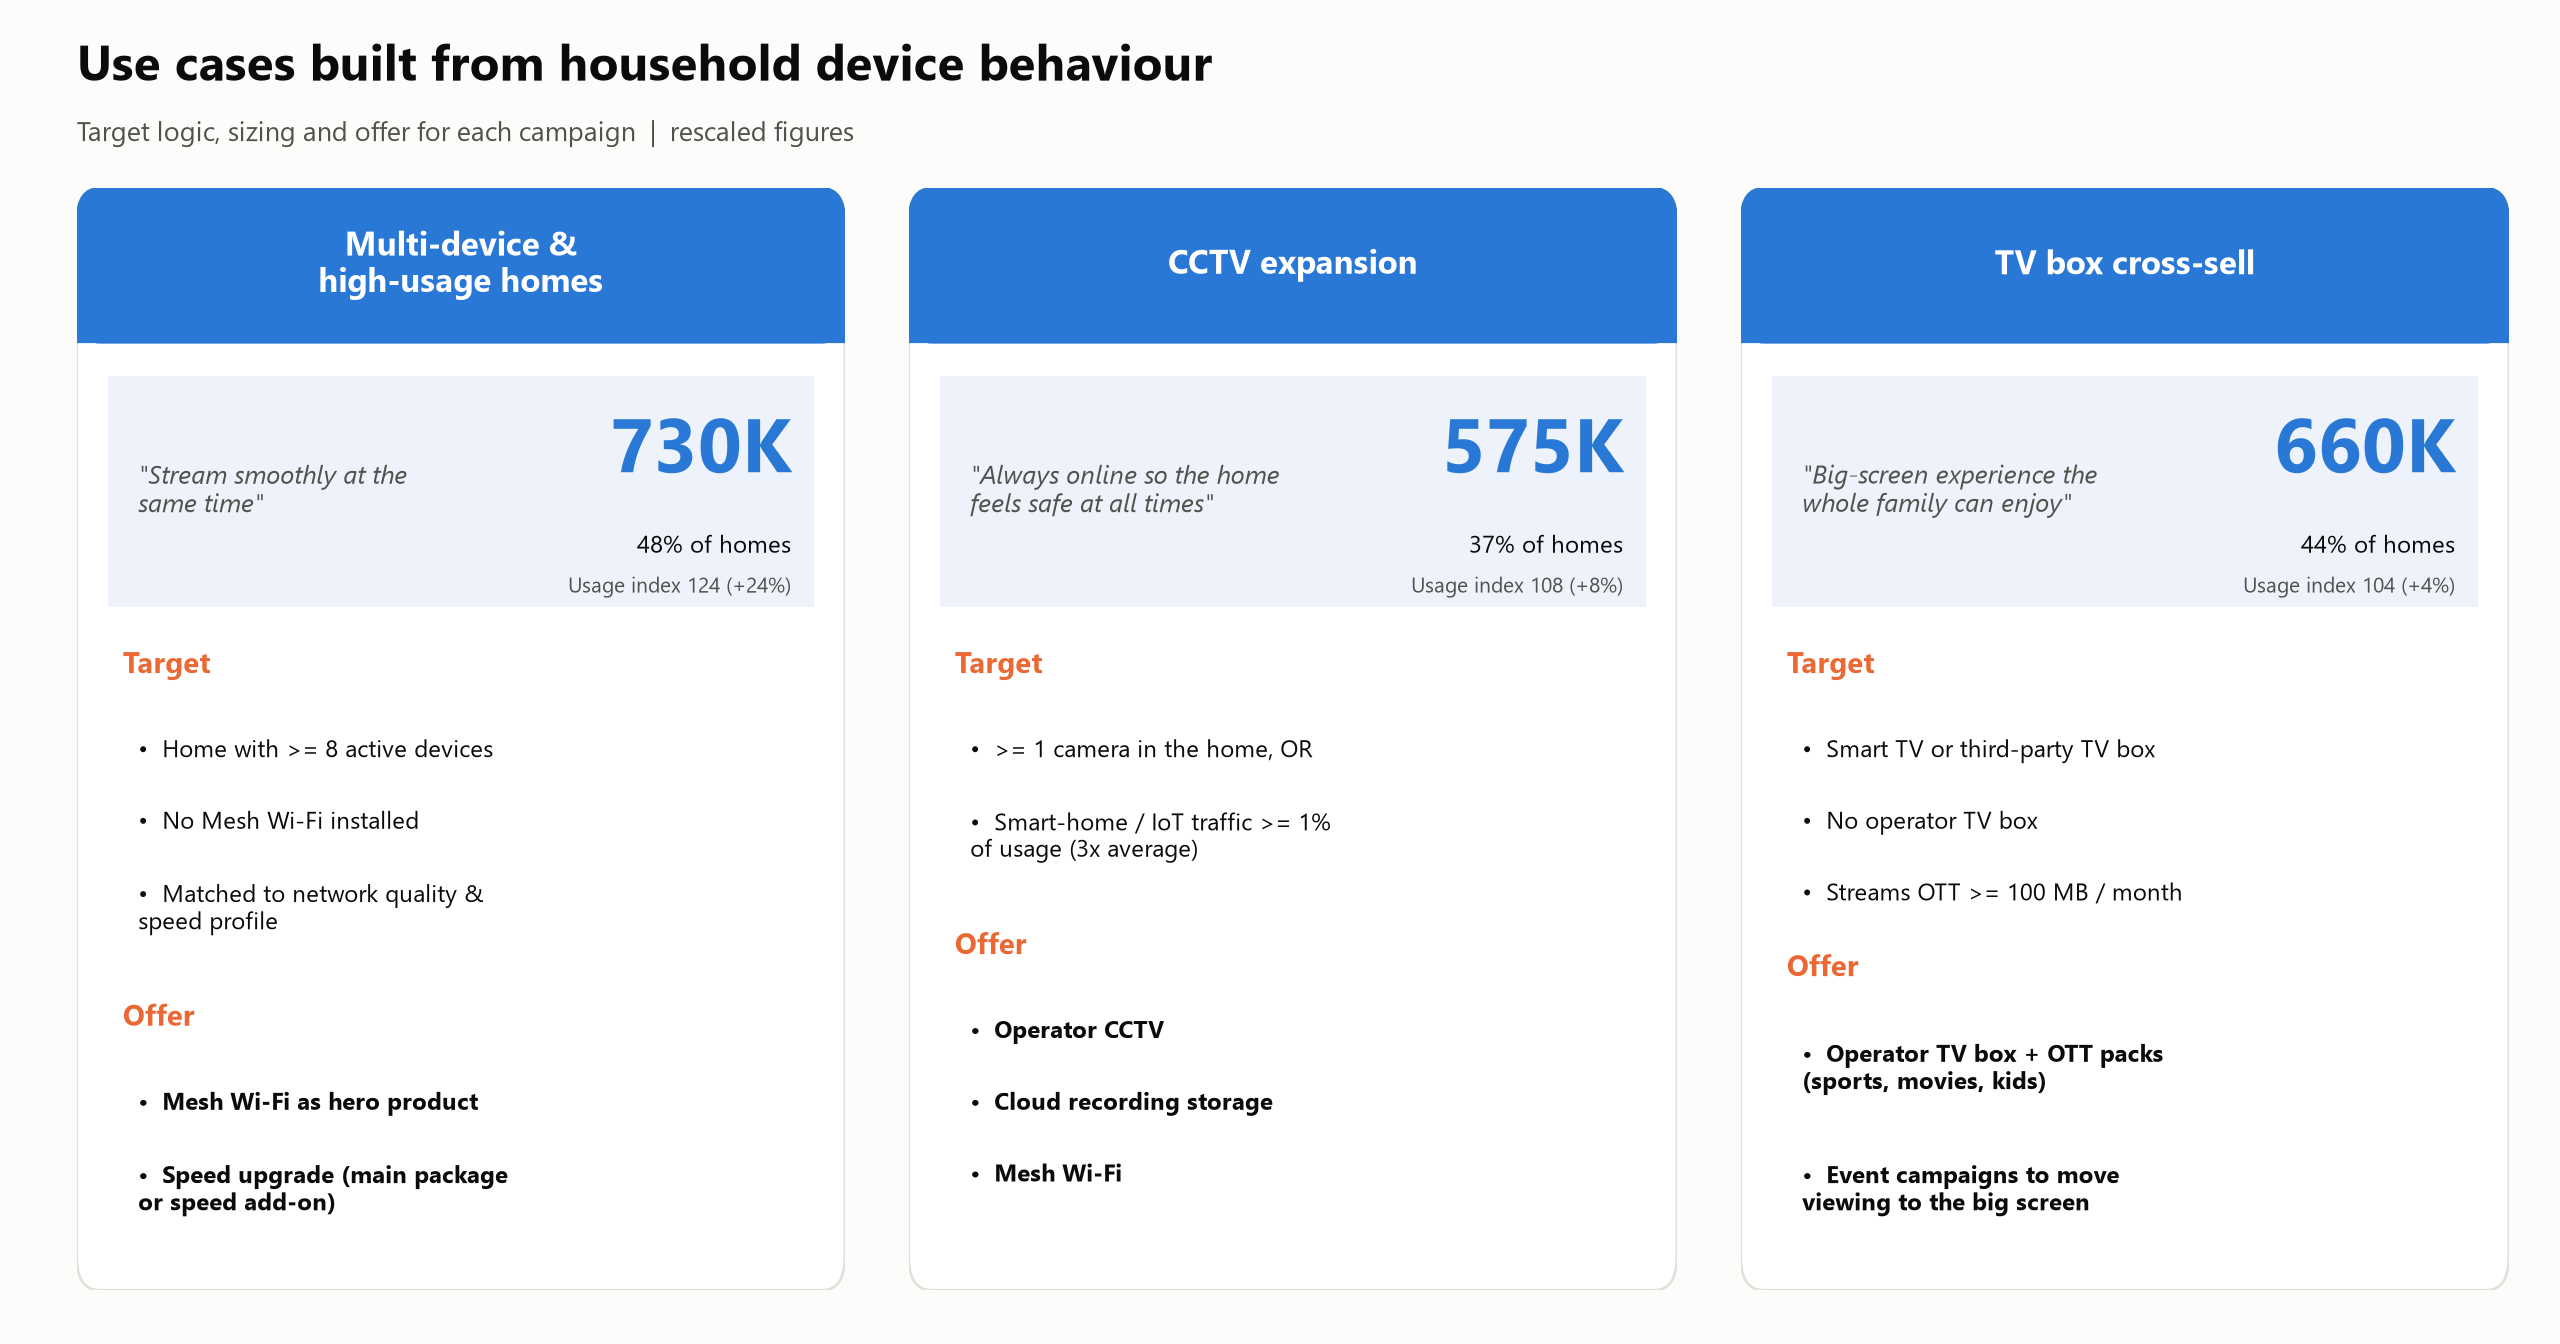
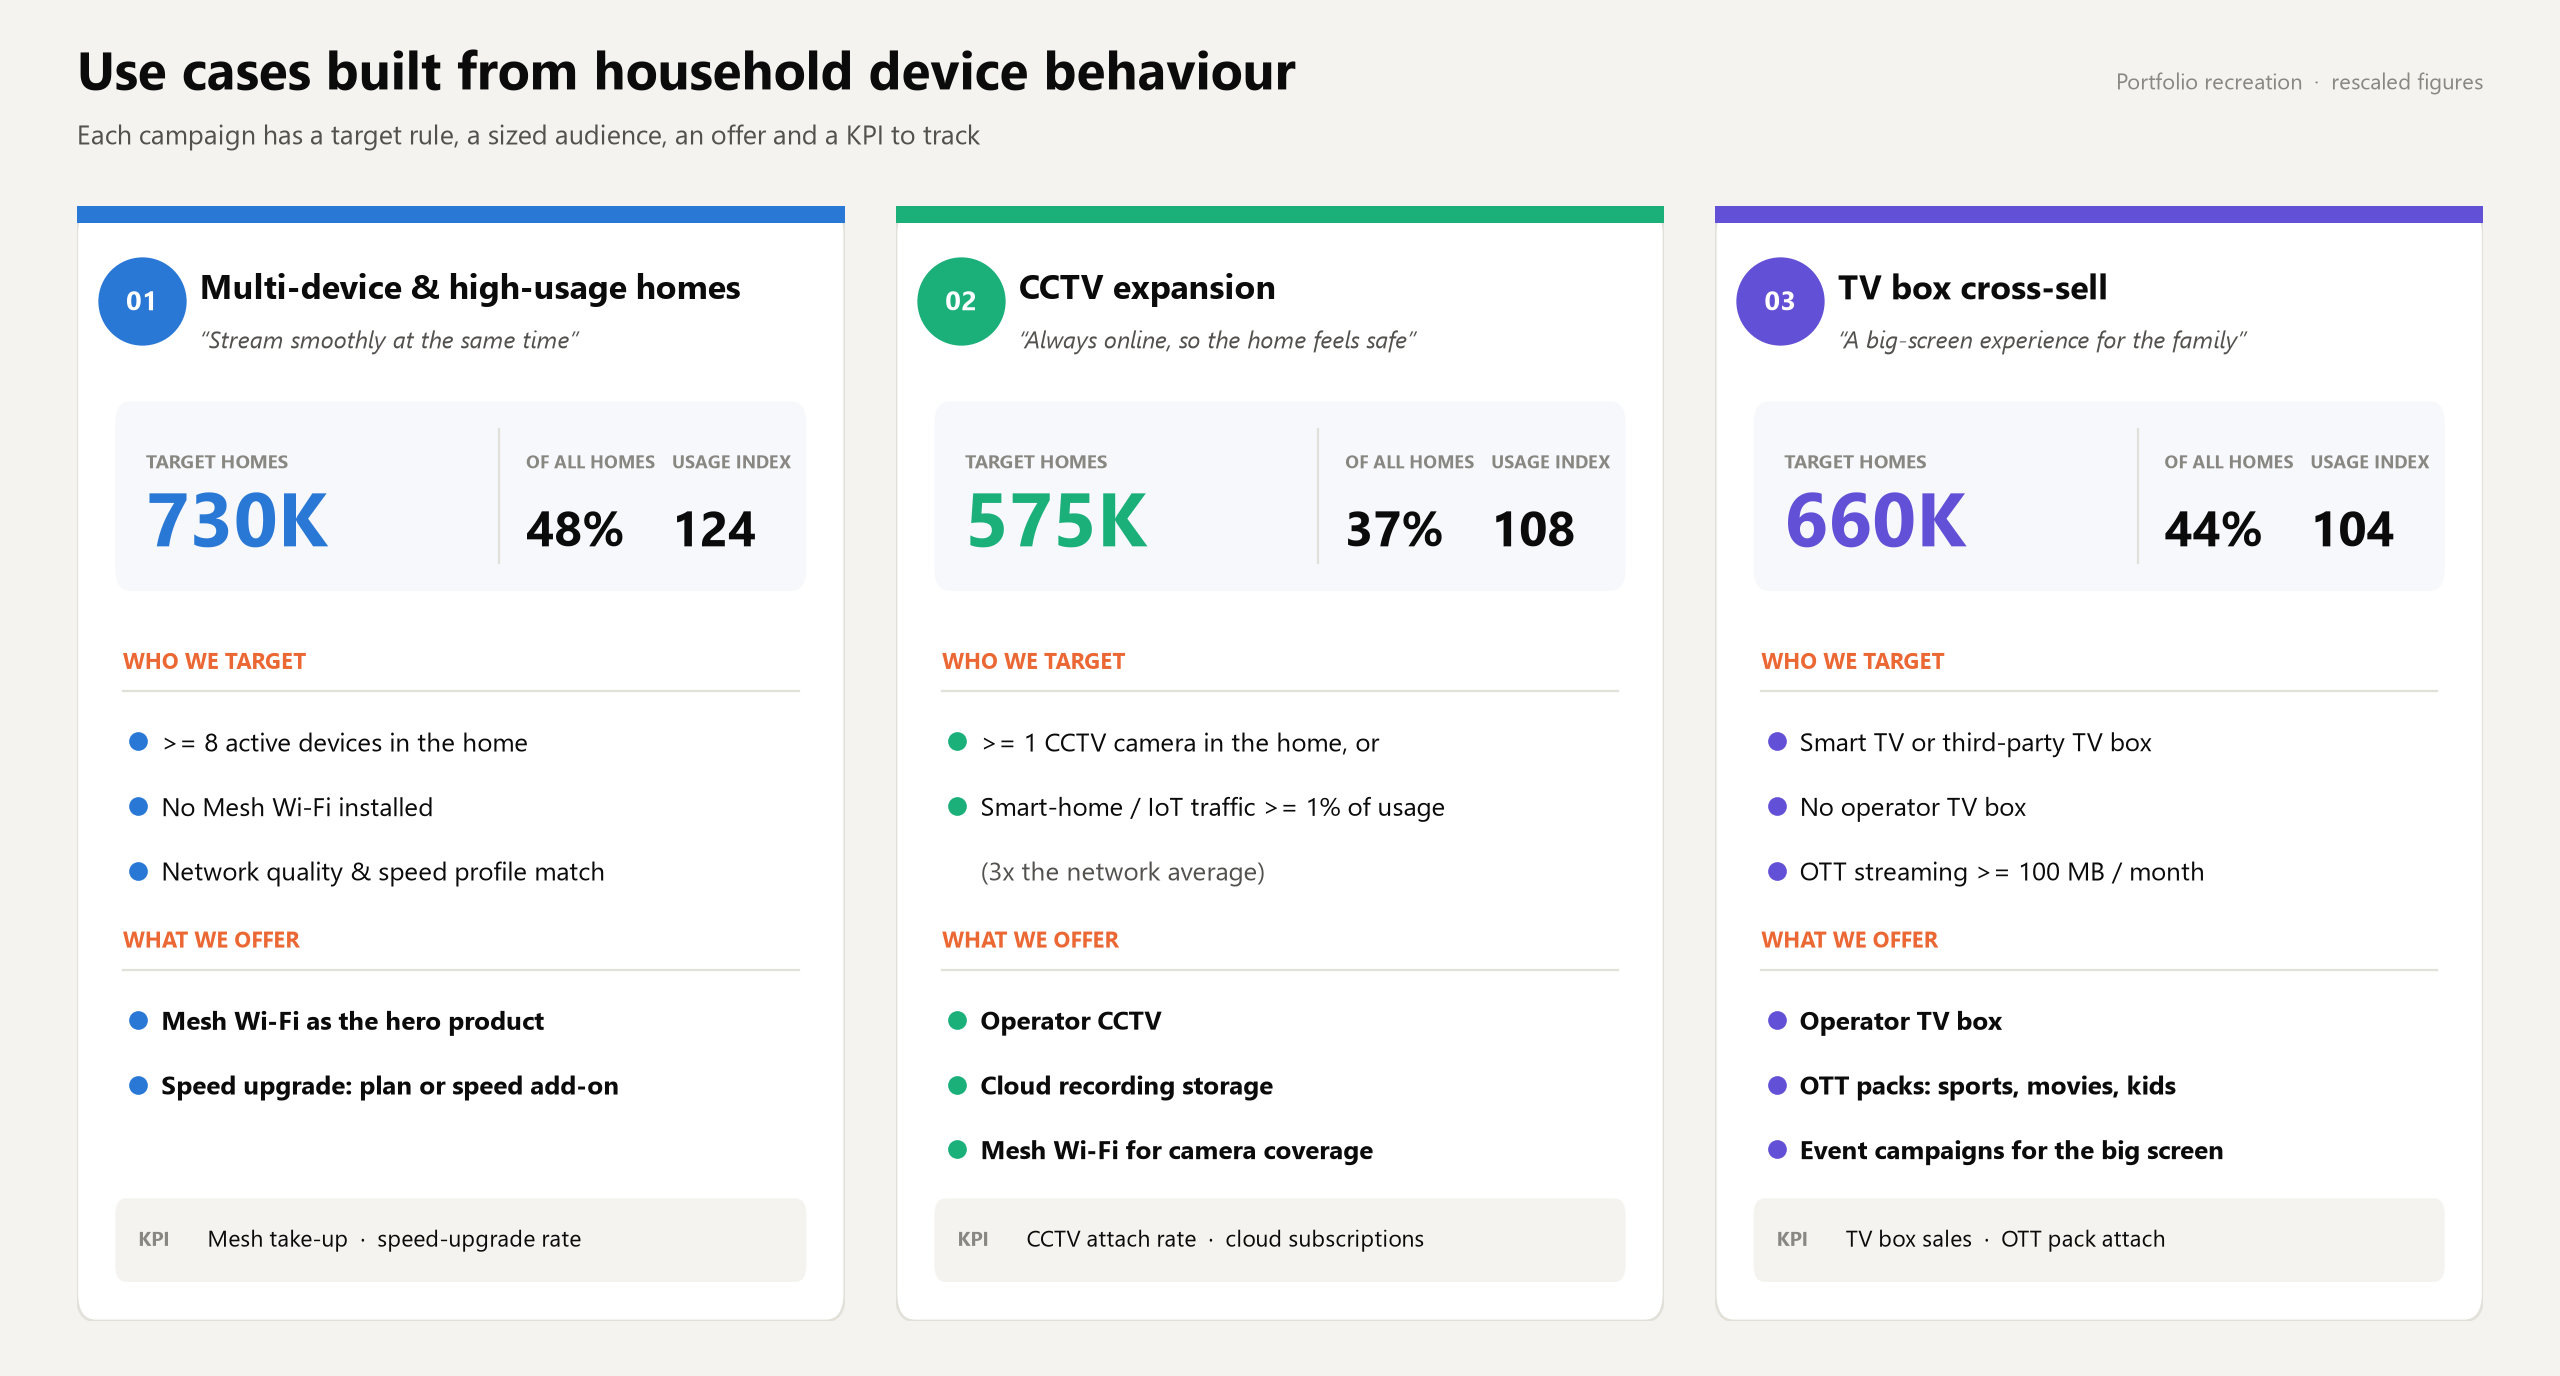
Redesign report visuals as a dashboard-style page

diff --git a/docs/make_charts.py b/docs/make_charts.py
@@ -40,41 +40,66 @@ K = FuncFormatter(lambda v, _: f"{v/1000:.0f}K")
 M = FuncFormatter(lambda v, _: f"{v/1e6:.0f}M")
 
 # ------------------------------------------------------------- 00a use-case cards
+PAGE, CARD, LINE, VIOLET = "#f4f3ef", "#ffffff", "#e1e0d9", "#6250d6"
 cards = [
-    ("Multi-device &\nhigh-usage homes", "\"Stream smoothly at the\nsame time\"", "730K", "48% of homes", "Usage index 124 (+24%)",
-     ["Home with >= 8 active devices", "No Mesh Wi-Fi installed", "Matched to network quality &\nspeed profile"],
-     ["Mesh Wi-Fi as hero product", "Speed upgrade (main package\nor speed add-on)"]),
-    ("CCTV expansion", "\"Always online so the home\nfeels safe at all times\"", "575K", "37% of homes", "Usage index 108 (+8%)",
-     [">= 1 camera in the home, OR", "Smart-home / IoT traffic >= 1%\nof usage (3x average)"],
-     ["Operator CCTV", "Cloud recording storage", "Mesh Wi-Fi"]),
-    ("TV box cross-sell", "\"Big-screen experience the\nwhole family can enjoy\"", "660K", "44% of homes", "Usage index 104 (+4%)",
-     ["Smart TV or third-party TV box", "No operator TV box", "Streams OTT >= 100 MB / month"],
-     ["Operator TV box + OTT packs\n(sports, movies, kids)", "Event campaigns to move\nviewing to the big screen"]),
+    ("01", "Multi-device & high-usage homes", "“Stream smoothly at the same time”", BLUE,
+     "730K", "48%", "124",
+     [">= 8 active devices in the home", "No Mesh Wi-Fi installed", "Network quality & speed profile match"],
+     ["Mesh Wi-Fi as the hero product", "Speed upgrade: plan or speed add-on"],
+     "Mesh take-up  ·  speed-upgrade rate"),
+    ("02", "CCTV expansion", "“Always online, so the home feels safe”", AQUA,
+     "575K", "37%", "108",
+     [">= 1 CCTV camera in the home, or", "Smart-home / IoT traffic >= 1% of usage", "(3x the network average)"],
+     ["Operator CCTV", "Cloud recording storage", "Mesh Wi-Fi for camera coverage"],
+     "CCTV attach rate  ·  cloud subscriptions"),
+    ("03", "TV box cross-sell", "“A big-screen experience for the family”", VIOLET,
+     "660K", "44%", "104",
+     ["Smart TV or third-party TV box", "No operator TV box", "OTT streaming >= 100 MB / month"],
+     ["Operator TV box", "OTT packs: sports, movies, kids", "Event campaigns for the big screen"],
+     "TV box sales  ·  OTT pack attach"),
 ]
-fig = plt.figure(figsize=(16, 8.4))
-fig.text(0.03, 0.94, "Use cases built from household device behaviour", fontsize=22, fontweight="bold", color=INK)
-fig.text(0.03, 0.895, "Target logic, sizing and offer for each campaign  |  rescaled figures", fontsize=12, color=INK2)
-for i, (name, quote, big, share, usage, target, offer) in enumerate(cards):
-    x0 = 0.03 + i * 0.325; w = 0.30
-    ax = fig.add_axes([x0, 0.04, w, 0.82]); ax.set_xlim(0, 1); ax.set_ylim(0, 1); ax.axis("off")
-    ax.add_patch(FancyBboxPatch((0, 0), 1, 1, boxstyle="round,pad=0,rounding_size=0.03", fc="#ffffff", ec=GRID, lw=1.2))
-    ax.add_patch(FancyBboxPatch((0, 0.86), 1, 0.14, boxstyle="round,pad=0,rounding_size=0.03", fc=BLUE, ec=BLUE))
-    ax.add_patch(plt.Rectangle((0, 0.86), 1, 0.05, fc=BLUE, ec=BLUE))
-    ax.text(0.5, 0.93, name, ha="center", va="center", fontsize=15, fontweight="bold", color="#ffffff")
-    ax.add_patch(plt.Rectangle((0.04, 0.62), 0.92, 0.21, fc="#eef3fb", ec="none"))
-    ax.text(0.08, 0.725, quote, fontsize=11.5, style="italic", color=INK2, va="center")
-    ax.text(0.93, 0.76, big, fontsize=34, fontweight="bold", color=BLUE, ha="right", va="center")
-    ax.text(0.93, 0.675, share, fontsize=11, color=INK, ha="right", va="center")
-    ax.text(0.93, 0.638, usage, fontsize=9.5, color=INK2, ha="right", va="center")
-    y = 0.56
-    ax.text(0.06, y, "Target", fontsize=13, fontweight="bold", color=ORANGE); y -= 0.06
-    for t in target:
-        ax.text(0.08, y, "•  " + t, fontsize=11, color=INK, va="top"); y -= 0.045 * (t.count("\n") + 1) + 0.02
-    y -= 0.02
-    ax.text(0.06, y, "Offer", fontsize=13, fontweight="bold", color=ORANGE); y -= 0.06
-    for t in offer:
-        ax.text(0.08, y, "•  " + t, fontsize=11, color=INK, va="top", fontweight="bold"); y -= 0.045 * (t.count("\n") + 1) + 0.02
-fig.savefig(os.path.join(OUT, "00a_use_cases.png"), dpi=160); plt.close(fig)
+
+fig = plt.figure(figsize=(16, 8.6), facecolor=PAGE)
+fig.text(0.03, 0.935, "Use cases built from household device behaviour", fontsize=24, fontweight="bold", color=INK)
+fig.text(0.03, 0.895, "Each campaign has a target rule, a sized audience, an offer and a KPI to track", fontsize=12, color=INK2)
+fig.text(0.97, 0.935, "Portfolio recreation  ·  rescaled figures", fontsize=10, color=MUTED, ha="right")
+
+cw = (0.94 - 2 * 0.02) / 3
+for i, (num, name, quote, c, big, share, usage, target, offer, kpi) in enumerate(cards):
+    x0 = 0.03 + i * (cw + 0.02)
+    ax = fig.add_axes([x0, 0.04, cw, 0.81]); ax.set_xlim(0, 1); ax.set_ylim(0, 1); ax.axis("off")
+    ax.add_patch(FancyBboxPatch((0, 0), 1, 1, boxstyle="round,pad=0,rounding_size=0.025", fc=CARD, ec=LINE, lw=1.2))
+    ax.add_patch(plt.Rectangle((0.0, 0.985), 1, 0.015, fc=c, ec="none"))
+    # header
+    ax.scatter([0.085], [0.915], s=1500, color=c, zorder=3)
+    ax.text(0.085, 0.913, num, ha="center", va="center", fontsize=12, fontweight="bold", color="#ffffff", zorder=4)
+    ax.text(0.16, 0.925, name, fontsize=15.5, fontweight="bold", color=INK, va="center")
+    ax.text(0.16, 0.878, quote, fontsize=11, style="italic", color=INK2, va="center")
+    # hero metrics
+    ax.add_patch(FancyBboxPatch((0.05, 0.655), 0.9, 0.17, boxstyle="round,pad=0,rounding_size=0.02", fc="#f6f8fc", ec="none"))
+    ax.text(0.09, 0.765, "TARGET HOMES", fontsize=8.5, color=MUTED, fontweight="bold")
+    ax.text(0.09, 0.695, big, fontsize=34, fontweight="bold", color=c, va="baseline")
+    for j, (lab, v) in enumerate([("OF ALL HOMES", share), ("USAGE INDEX", usage)]):
+        xx = 0.585 + j * 0.19
+        ax.text(xx, 0.765, lab, fontsize=8, color=MUTED, fontweight="bold")
+        ax.text(xx, 0.695, v, fontsize=22, fontweight="bold", color=INK, va="baseline")
+    ax.plot([0.55, 0.55], [0.68, 0.80], color=LINE, lw=1)
+    # target / offer sections with fixed rows
+    for sec, items, y0 in [("WHO WE TARGET", target, 0.585), ("WHAT WE OFFER", offer, 0.335)]:
+        ax.text(0.06, y0, sec, fontsize=10, fontweight="bold", color=ORANGE)
+        ax.plot([0.06, 0.94], [y0 - 0.02, y0 - 0.02], color=LINE, lw=1)
+        for k, t in enumerate(items):
+            yy = y0 - 0.068 - k * 0.058
+            cont = t.startswith("(")
+            if not cont:
+                ax.scatter([0.08], [yy + 0.003], s=55, color=c, zorder=3)
+            ax.text(0.11, yy, t, fontsize=11.5, color=INK2 if cont else INK, va="center",
+                    fontweight="bold" if sec == "WHAT WE OFFER" else "normal")
+    # KPI footer
+    ax.add_patch(FancyBboxPatch((0.05, 0.035), 0.9, 0.075, boxstyle="round,pad=0,rounding_size=0.015", fc="#f4f3ef", ec="none"))
+    ax.text(0.08, 0.072, "KPI", fontsize=9, fontweight="bold", color=MUTED, va="center")
+    ax.text(0.17, 0.072, kpi, fontsize=10.5, color=INK, va="center")
+fig.savefig(os.path.join(OUT, "00a_use_cases.png"), dpi=160, facecolor=PAGE); plt.close(fig)
 
 # ------------------------------------------------------------- 00b brand landscape
 fig, (a1, a2) = plt.subplots(1, 2, figsize=(12, 4.8), gridspec_kw={"width_ratios": [1.1, 1]})
